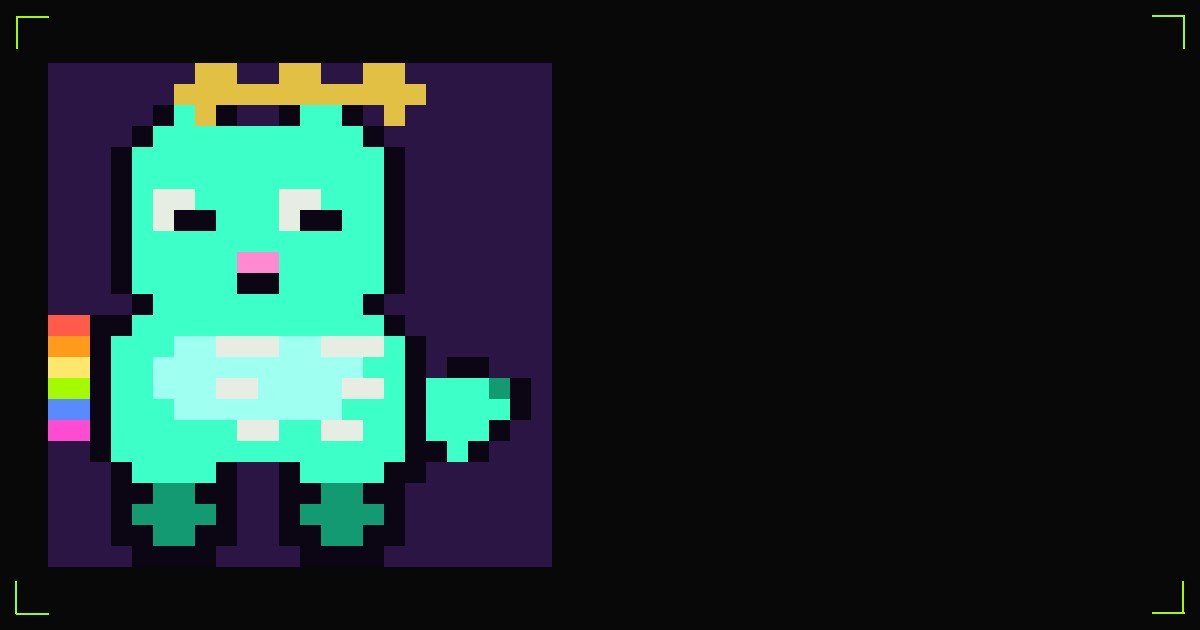
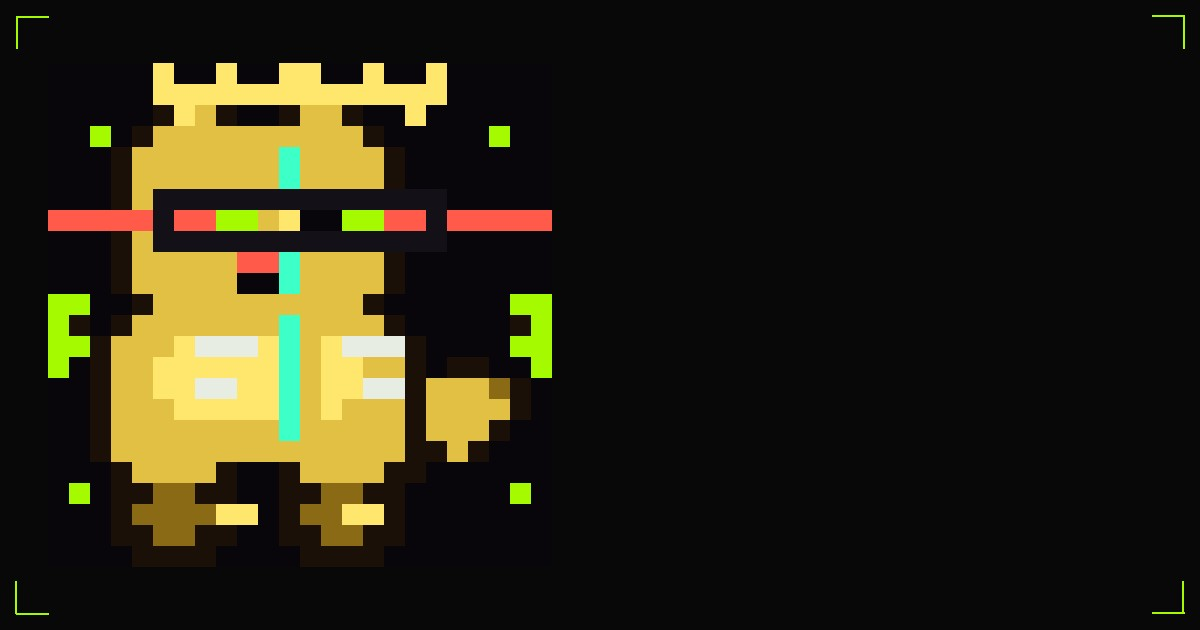
Hero is WREX, not a founder. Drop the colon title.
KILI wordmark + 24-bit copy. S-rank chimera stays off the gen-0 grid.

Changed region(s): [[0.0308, 0.0905, 0.4625, 0.9048]]

diff --git a/src/routes/index.tsx b/src/routes/index.tsx
@@ -1,7 +1,7 @@
 import { createFileRoute, Link } from "@tanstack/react-router";
 import { Button } from "@/components/ui/button";
 import { CornerFrame, Shell } from "@/components/shell";
-import { CHAIN_ID, FEE, FEE_SHARE, FOUNDERS, LINKS } from "@/lib/game";
+import { CHAIN_ID, FEE, FEE_SHARE, FOUNDERS } from "@/lib/game";
 import { FounderPixel } from "@/components/pixel-cat";
 import { useLab } from "@/store/lab";
 
@@ -16,27 +16,26 @@ function Home() {
       <section className="grid items-center gap-10 pb-16 md:grid-cols-[1.1fr_0.9fr]">
         <div>
           <p className="font-mono text-[8px] text-acid">THE VAT IS OPEN</p>
-          <h1 className="mt-4 font-mono text-[18px] leading-[1.7] text-fg md:text-[28px]">
-            MUTATE
-            <br />
-            YOUR CATS
-            <span className="mt-2 block text-mute">: KILI</span>
-          </h1>
-          <p className="mt-6 max-w-md font-sans text-[22px] leading-tight text-mute">
-            A cat is four organs. Mix two. Fifty-fifty. Six percent mutant. Coat mismatch: chimera. Keep
-            the wrong ones.
-          </p>
+          <h1 className="mt-4 font-mono text-[28px] leading-[1.6] text-acid md:text-[40px]">KILI</h1>
+          <p className="mt-3 font-mono text-[10px] leading-relaxed text-fg md:text-[12px]">MUTATE YOUR CATS</p>
+          <ul className="mt-6 space-y-2 font-mono text-[8px] leading-relaxed text-mute md:text-[9px]">
+            <li>4 ORGANS · HEAD BODY TAIL LEGS</li>
+            <li>MIX 2 · 50 / 50</li>
+            <li>6% MUTANT</li>
+            <li className="text-acid">WRONG COAT = CHIMERA</li>
+            <li>KEEP THE WRONG ONES</li>
+          </ul>
           <div className="mt-8 flex flex-wrap gap-3">
             <Link to="/lab" onClick={() => connect()}>
-              <Button size="lg">Open the lab</Button>
+              <Button size="lg">OPEN LAB</Button>
             </Link>
             <Link to="/pit">
               <Button size="lg" variant="line">
-                Enter the pit
+                ENTER PIT
               </Button>
             </Link>
           </div>
-          <dl className="mt-10 grid max-w-lg grid-cols-3 gap-4 border-t border-line pt-6">
+          <dl className="mt-10 grid max-w-lg grid-cols-3 gap-4 border-t-2 border-line pt-6">
             <div>
               <dt className="font-mono text-[8px] text-mute">TICKER</dt>
               <dd className="mt-1 font-mono text-[12px]">$KILI</dd>
@@ -46,29 +45,35 @@ function Home() {
               <dd className="mt-1 font-mono text-[12px]">{FEE.totalBps / 100}%</dd>
             </div>
             <div>
-              <dt className="font-mono text-[8px] text-mute">CHAIN ID</dt>
+              <dt className="font-mono text-[8px] text-mute">CHAIN</dt>
               <dd className="mt-1 font-mono text-[12px]">{CHAIN_ID}</dd>
             </div>
           </dl>
         </div>
-        <CornerFrame className="aspect-square max-h-[520px] overflow-hidden border border-line bg-ink">
-          <FounderPixel id="phantom" className="h-full w-full" />
-        </CornerFrame>
+        <div>
+          <CornerFrame className="aspect-square max-h-[520px] overflow-hidden border-2 border-acid bg-ink">
+            <FounderPixel id="wrex" className="h-full w-full" />
+          </CornerFrame>
+          <div className="mt-3 flex items-center justify-between font-mono text-[8px]">
+            <span className="text-acid">WREX</span>
+            <span className="text-mute">S-RANK · CHIMERA · +5</span>
+          </div>
+        </div>
       </section>
 
       <section>
         <div className="mb-6 flex items-end justify-between">
           <h2 className="font-mono text-[12px]">FOUNDERS</h2>
-          <p className="font-mono text-[8px] text-mute">7 COATS · 6 LINES</p>
+          <p className="font-mono text-[8px] text-mute">GEN 0 · 7 KITS</p>
         </div>
         <div className="grid grid-cols-2 gap-3 sm:grid-cols-3 lg:grid-cols-7">
           {FOUNDERS.map((f) => (
-            <figure key={f.id} className="group border border-line bg-ink">
+            <figure key={f.id} className="border-2 border-line bg-ink">
               <div className="aspect-square overflow-hidden">
                 <FounderPixel id={f.id} className="h-full w-full" />
               </div>
               <figcaption className="px-2 py-2">
-                <div className="font-mono text-[9px]">{f.name}</div>
+                <div className="font-mono text-[9px]">{f.name.toUpperCase()}</div>
                 <div className="font-mono text-[8px] text-mute">{f.line}</div>
               </figcaption>
             </figure>
@@ -78,61 +83,44 @@ function Home() {
 
       <section className="mt-16 grid gap-4 md:grid-cols-3">
         {[
-          {
-            k: "01 Mix",
-            t: "Four organs",
-            d: "Head, body, tail, legs. Each roll is fifty-fifty. Parents stay. The child is a new KIT.",
-          },
-          {
-            k: "02 Wrong coat",
-            t: "Chimera",
-            d: "If the coat does not match the head, the split stays. That is the brand, not a bug.",
-          },
-          {
-            k: "03 The pit",
-            t: "Hourly score",
-            d: "No HP bar. Organs + line + chimera + boost become one number. Winner takes +1 organ.",
-          },
+          { k: "01 MIX", t: "4 ORGANS", d: "HEAD BODY TAIL LEGS. ROLL 50/50. PARENTS STAY. CHILD IS A NEW KIT." },
+          { k: "02 COAT", t: "CHIMERA", d: "HEAD != COAT. SPLIT STAYS ON THE CARD. THAT IS THE DROP. KEEP IT." },
+          { k: "03 PIT", t: "HOUR SCORE", d: "NO HP. ORGANS + LINE + CHIMERA + BOOST = 1 NUMBER. WINNER +1 ORGAN." },
         ].map((c) => (
-          <article key={c.k} className="border border-line bg-panel p-5">
+          <article key={c.k} className="border-2 border-line bg-panel p-5">
             <p className="font-mono text-[8px] text-acid">{c.k}</p>
             <h3 className="mt-3 font-mono text-[11px] leading-relaxed">{c.t}</h3>
-            <p className="mt-2 font-sans text-[20px] leading-tight text-mute">{c.d}</p>
+            <p className="mt-3 font-mono text-[8px] leading-relaxed text-mute">{c.d}</p>
           </article>
         ))}
       </section>
 
-      <section className="mt-16 border border-line bg-panel p-6 md:p-8">
+      <section className="mt-16 border-2 border-line bg-panel p-6 md:p-8">
         <div className="flex flex-wrap items-start justify-between gap-6">
           <div>
             <h2 className="font-mono text-[12px] leading-relaxed">3% CREATOR FEE</h2>
-            <p className="mt-2 max-w-lg font-sans text-[20px] leading-tight text-mute">
-              Uniswap V4, LP locked, 1B minted once. Mix fee 0.0003 ETH hits The Vat, never an operator
-              EOA. Launch on{" "}
-              <a className="text-acid underline-offset-2 hover:underline" href={LINKS.pair} target="_blank" rel="noreferrer">
-                pair.fun
-              </a>
-              . Custom quote stays empty.
+            <p className="mt-3 max-w-lg font-mono text-[8px] leading-relaxed text-mute">
+              PAIR V2. UNI V4. LP LOCKED. 1B ONCE. MIX FEE 0.0003 ETH TO THE VAT. NEVER AN EOA.
+              LAUNCH ON PAIR.FUN. CUSTOM QUOTE EMPTY.
             </p>
           </div>
           <Link to="/token">
-            <Button variant="line">Token split</Button>
+            <Button variant="line">$KILI SPLIT</Button>
           </Link>
         </div>
         <div className="mt-6 grid gap-px bg-line sm:grid-cols-3">
           {FEE_SHARE.map((s) => (
             <div key={s.id} className="bg-bg p-4">
               <div className="font-mono text-[14px] text-acid">{s.swapPct}</div>
-              <div className="mt-1 font-mono text-[10px]">{s.label}</div>
-              <div className="mt-1 font-mono text-[8px] text-mute">{s.dest}</div>
+              <div className="mt-1 font-mono text-[10px]">{s.label.toUpperCase()}</div>
+              <div className="mt-1 font-mono text-[8px] text-mute">{s.dest.toUpperCase()}</div>
             </div>
           ))}
         </div>
       </section>
 
       <p className="mt-10 font-mono text-[8px] leading-relaxed text-mute">
-        {wallet ? "Lab session live — mix is local until Nursery." : "Enter lab to seed two founders."} ·
-        www.kili.lol · @{`kili_RH`}
+        {wallet ? "LAB LIVE · MIX LOCAL UNTIL NURSERY" : "ENTER LAB · SEED 2 FOUNDERS"} · WWW.KILI.LOL · @KILI_RH
       </p>
     </Shell>
   );

diff --git a/scripts/pixel-cats.py b/scripts/pixel-cats.py
@@ -268,6 +268,74 @@ TRAITS = {
             "I": "#a5fa00",
         },
     },
+    "wrex": {
+        # Apex chimera — not a founder. Crown + visor + dual beam + wings + ribs + flag.
+        "extras": [
+            # five-spike crown
+            (5, 0, "G"), (8, 0, "G"), (11, 0, "G"), (12, 0, "G"), (15, 0, "G"), (18, 0, "G"),
+            (5, 1, "G"), (6, 1, "G"), (7, 1, "G"), (8, 1, "G"), (9, 1, "G"), (10, 1, "G"),
+            (11, 1, "G"), (12, 1, "G"), (13, 1, "G"), (14, 1, "G"), (15, 1, "G"), (16, 1, "G"),
+            (17, 1, "G"), (18, 1, "G"),
+            (6, 2, "G"), (17, 2, "G"),
+            # visor
+            (5, 6, "K"), (6, 6, "K"), (7, 6, "K"), (8, 6, "K"), (9, 6, "K"), (10, 6, "K"),
+            (11, 6, "K"), (12, 6, "K"), (13, 6, "K"), (14, 6, "K"), (15, 6, "K"), (16, 6, "K"),
+            (17, 6, "K"), (18, 6, "K"),
+            (5, 7, "K"), (18, 7, "K"),
+            (6, 7, "R"), (7, 7, "R"), (8, 7, "Y"), (9, 7, "Y"),
+            (14, 7, "Y"), (15, 7, "Y"), (16, 7, "R"), (17, 7, "R"),
+            (5, 8, "K"), (6, 8, "K"), (7, 8, "K"), (8, 8, "K"), (9, 8, "K"), (10, 8, "K"),
+            (11, 8, "K"), (12, 8, "K"), (13, 8, "K"), (14, 8, "K"), (15, 8, "K"), (16, 8, "K"),
+            (17, 8, "K"), (18, 8, "K"),
+            # dual lasers
+            (0, 7, "R"), (1, 7, "R"), (2, 7, "R"), (3, 7, "R"), (4, 7, "R"),
+            (19, 7, "R"), (20, 7, "R"), (21, 7, "R"), (22, 7, "R"), (23, 7, "R"),
+            # acid wings
+            (0, 11, "I"), (1, 11, "I"), (0, 12, "I"), (1, 12, "X"),
+            (0, 13, "I"), (1, 13, "I"), (0, 14, "I"),
+            (22, 11, "I"), (23, 11, "I"), (22, 12, "X"), (23, 12, "I"),
+            (22, 13, "I"), (23, 13, "I"), (23, 14, "I"),
+            # chimera seam
+            (11, 4, "D"), (12, 4, "A"),
+            (11, 5, "D"), (12, 5, "A"),
+            (11, 9, "D"), (12, 9, "A"),
+            (11, 10, "D"), (12, 10, "A"),
+            (11, 12, "D"), (12, 12, "A"),
+            (11, 13, "D"), (12, 13, "A"),
+            (11, 14, "D"), (12, 14, "A"),
+            (11, 15, "D"), (12, 15, "A"),
+            (11, 16, "D"), (12, 16, "A"),
+            (11, 17, "D"), (12, 17, "A"),
+            # ribs
+            (7, 13, "W"), (8, 13, "W"), (9, 13, "W"),
+            (14, 13, "W"), (15, 13, "W"), (16, 13, "W"),
+            (7, 15, "W"), (8, 15, "W"), (15, 15, "W"), (16, 15, "W"),
+            # gold paws
+            (8, 21, "G"), (9, 21, "G"), (14, 21, "G"), (15, 21, "G"),
+            # aura dots
+            (2, 3, "I"), (21, 3, "I"), (1, 20, "I"), (22, 20, "I"),
+        ],
+        "pal": {
+            ".": "#08060a",
+            "X": "#1a1008",
+            "A": "#e2c044",
+            "B": "#8a6a14",
+            "C": "#ffe66d",
+            "D": "#3dffc8",
+            "E": "#ffe66d",
+            "P": "#08060a",
+            "N": "#ff5a4a",
+            "M": "#08060a",
+            "T": "#e2c044",
+            "L": "#8a6a14",
+            "G": "#ffe66d",
+            "K": "#141018",
+            "R": "#ff5a4a",
+            "Y": "#a5fa00",
+            "W": "#e8ede3",
+            "I": "#a5fa00",
+        },
+    },
 }
 
 
@@ -290,7 +358,8 @@ def main():
     out = Path("/workspace/public/cats")
     prev = Path("/workspace/screenshots/pixels")
     prev.mkdir(parents=True, exist_ok=True)
-    sheet = Image.new("RGB", (SIZE * SCALE * 7, SIZE * SCALE), (7, 8, 7))
+    n = len(TRAITS)
+    sheet = Image.new("RGB", (SIZE * SCALE * n, SIZE * SCALE), (7, 8, 7))
     for i, name in enumerate(TRAITS):
         raw = paint(name)
         big = raw.resize((SIZE * SCALE, SIZE * SCALE), Image.NEAREST)
